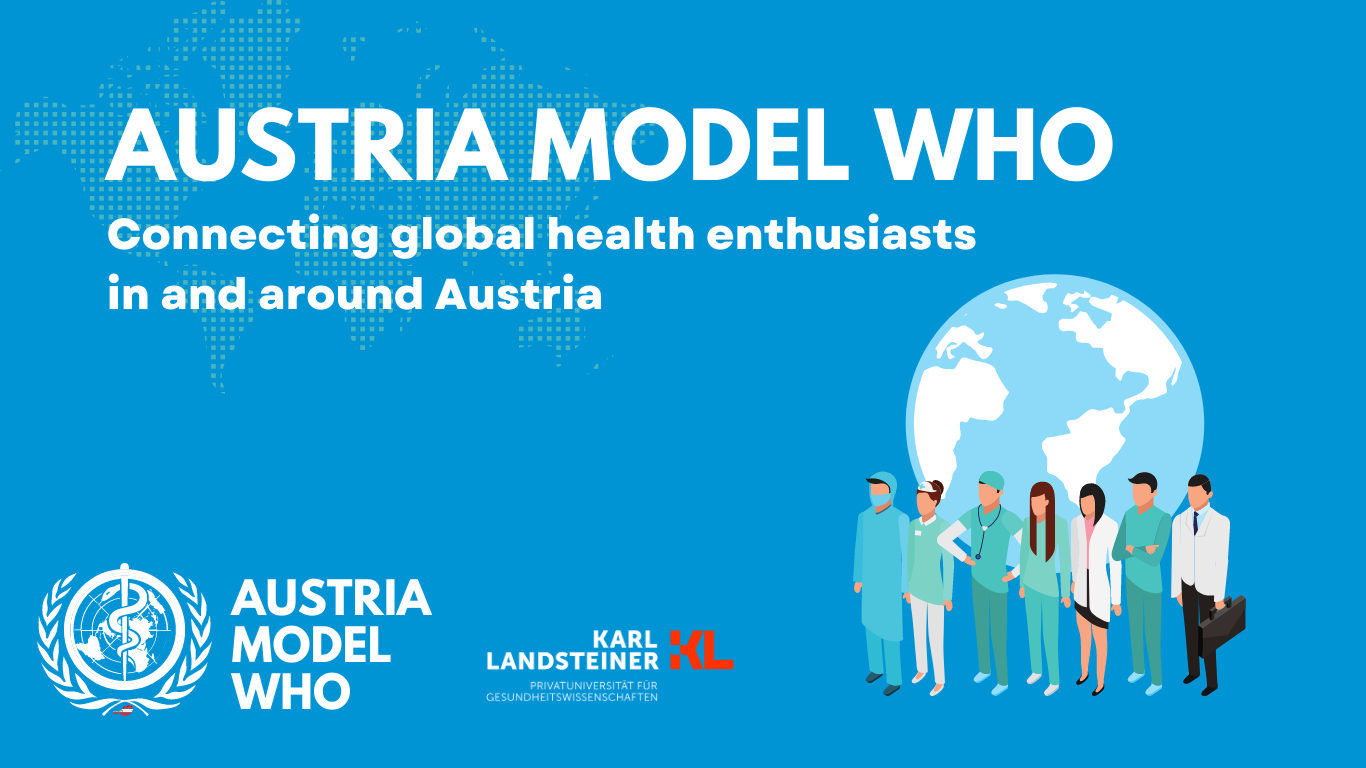
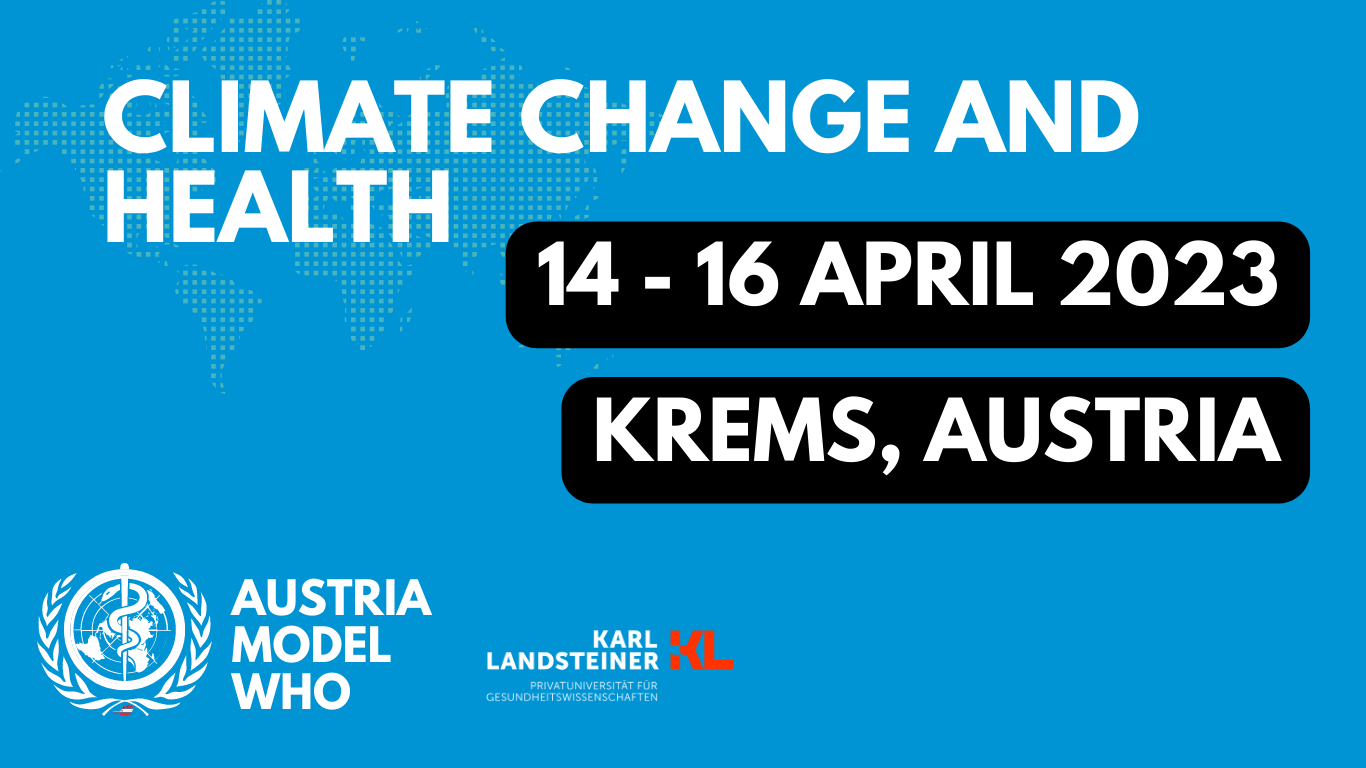
registrations open!

diff --git a/docs/docs/gallery/index.html b/docs/docs/gallery/index.html
@@ -184,7 +184,7 @@ ul.task-list li input[type="checkbox"] {
 <div class="g-col-4">
 <div class="quarto-figure quarto-figure-center">
 <figure class="figure">
-<p><a href="photos/DrNoon_presentation_2022.png" class="lightbox" title="Expert talk by Dr.&nbsp;Jawad Noon, “Future Energy &amp; Human Health” as part of the October 2022 (online) session on “Energy Security &amp; Health”." data-gallery="my-gallery"><img src="photos/DrNoon_presentation_2022.png" class="img-fluid figure-img"></a></p>
+<p><a href="photos/DrNoon_presentation_2022.png" class="lightbox" data-gallery="my-gallery" title="Expert talk by Dr.&nbsp;Jawad Noon, “Future Energy &amp; Human Health” as part of the October 2022 (online) session on “Energy Security &amp; Health”."><img src="photos/DrNoon_presentation_2022.png" class="img-fluid figure-img"></a></p>
 <p></p><figcaption class="figure-caption">Expert talk by Dr.&nbsp;Jawad Noon, “Future Energy &amp; Human Health” as part of the October 2022 (online) session on “Energy Security &amp; Health”.</figcaption><p></p>
 </figure>
 </div>
@@ -192,7 +192,7 @@ ul.task-list li input[type="checkbox"] {
 <div class="g-col-4">
 <div class="quarto-figure quarto-figure-center">
 <figure class="figure">
-<p><a href="photos/Participants_screenshot_2022.png" class="lightbox" title="Some of the participants and committee members as part of the October 2022 (online) session on “Energy Security &amp; Health”." data-gallery="my-gallery"><img src="photos/Participants_screenshot_2022.png" class="img-fluid figure-img"></a></p>
+<p><a href="photos/Participants_screenshot_2022.png" class="lightbox" data-gallery="my-gallery" title="Some of the participants and committee members as part of the October 2022 (online) session on “Energy Security &amp; Health”."><img src="photos/Participants_screenshot_2022.png" class="img-fluid figure-img"></a></p>
 <p></p><figcaption class="figure-caption">Some of the participants and committee members as part of the October 2022 (online) session on “Energy Security &amp; Health”.</figcaption><p></p>
 </figure>
 </div>
@@ -200,7 +200,7 @@ ul.task-list li input[type="checkbox"] {
 <div class="g-col-4">
 <div class="quarto-figure quarto-figure-center">
 <figure class="figure">
-<p><a href="photos/Plenary_session_2022.png" class="lightbox" title="Resolution writing as part of the October 2022 (online) session on “Energy Security &amp; Health”." data-gallery="my-gallery"><img src="photos/Plenary_session_2022.png" class="img-fluid figure-img"></a></p>
+<p><a href="photos/Plenary_session_2022.png" class="lightbox" data-gallery="my-gallery" title="Resolution writing as part of the October 2022 (online) session on “Energy Security &amp; Health”."><img src="photos/Plenary_session_2022.png" class="img-fluid figure-img"></a></p>
 <p></p><figcaption class="figure-caption">Resolution writing as part of the October 2022 (online) session on “Energy Security &amp; Health”.</figcaption><p></p>
 </figure>
 </div>
@@ -210,7 +210,7 @@ ul.task-list li input[type="checkbox"] {
 <div class="g-col-4">
 <div class="quarto-figure quarto-figure-center">
 <figure class="figure">
-<p><a href="photos/Keerthi_presentation_2022.png" class="lightbox" title="Presentation by Dr.&nbsp;Keerthi Dubbala, the President of Austria Model WHO and the Chair of the October 2022 (online) session on “Energy Security &amp; Health”." data-gallery="my-gallery"><img src="photos/Keerthi_presentation_2022.png" class="img-fluid figure-img"></a></p>
+<p><a href="photos/Keerthi_presentation_2022.png" class="lightbox" data-gallery="my-gallery" title="Presentation by Dr.&nbsp;Keerthi Dubbala, the President of Austria Model WHO and the Chair of the October 2022 (online) session on “Energy Security &amp; Health”."><img src="photos/Keerthi_presentation_2022.png" class="img-fluid figure-img"></a></p>
 <p></p><figcaption class="figure-caption">Presentation by Dr.&nbsp;Keerthi Dubbala, the President of Austria Model WHO and the Chair of the October 2022 (online) session on “Energy Security &amp; Health”.</figcaption><p></p>
 </figure>
 </div>
@@ -218,7 +218,7 @@ ul.task-list li input[type="checkbox"] {
 <div class="g-col-4">
 <div class="quarto-figure quarto-figure-center">
 <figure class="figure">
-<p><a href="photos/Roshan_presentation_2022.png" class="lightbox" title="Presentation by Dr.&nbsp;Roshan Prizak, one of the Vice-Presidents of Austria Model WHO as part of the October 2022 (online) session on “Energy Security &amp; Health”." data-gallery="my-gallery"><img src="photos/Roshan_presentation_2022.png" class="img-fluid figure-img"></a></p>
+<p><a href="photos/Roshan_presentation_2022.png" class="lightbox" data-gallery="my-gallery" title="Presentation by Dr.&nbsp;Roshan Prizak, one of the Vice-Presidents of Austria Model WHO as part of the October 2022 (online) session on “Energy Security &amp; Health”."><img src="photos/Roshan_presentation_2022.png" class="img-fluid figure-img"></a></p>
 <p></p><figcaption class="figure-caption">Presentation by Dr.&nbsp;Roshan Prizak, one of the Vice-Presidents of Austria Model WHO as part of the October 2022 (online) session on “Energy Security &amp; Health”.</figcaption><p></p>
 </figure>
 </div>
@@ -654,7 +654,7 @@ window.document.addEventListener("DOMContentLoaded", function (event) {
 });
 </script>
 </div> <!-- /content -->
-<script>var lightboxQuarto = GLightbox({"closeEffect":"zoom","loop":true,"openEffect":"zoom","selector":".lightbox","descPosition":"bottom"});</script>
+<script>var lightboxQuarto = GLightbox({"openEffect":"zoom","selector":".lightbox","loop":true,"closeEffect":"zoom","descPosition":"bottom"});</script>
 
 
 

diff --git a/docs/docs/events/april2023.html b/docs/docs/events/april2023.html
@@ -6,9 +6,9 @@
 
 <meta name="viewport" content="width=device-width, initial-scale=1.0, user-scalable=yes">
 
-<meta name="description" content="Add some more details here ..    Register">
+<meta name="description" content="Registrations are open now!    Register">
 
-<title>Austria Model WHO - Theme will be revealed soon!</title>
+<title>Austria Model WHO - Climate Change and Hralth</title>
 <style>
 code{white-space: pre-wrap;}
 span.smallcaps{font-variant: small-caps;}
@@ -55,11 +55,11 @@ ul.task-list li input[type="checkbox"] {
 
 
 <link rel="stylesheet" href="../../styles.css">
-<meta property="og:title" content="Austria Model WHO - Theme will be revealed soon!">
-<meta property="og:description" content="Add some more details here .. <br><br> <a class=&quot;description-button-link&quot; href=&quot;../../register.qmd&quot;><button class=&quot;button-18-normal&quot; role=&quot;button&quot;>Register</button></a>">
+<meta property="og:title" content="Austria Model WHO - Climate Change and Hralth">
+<meta property="og:description" content="Registrations are open now! <br><br> <a class=&quot;description-button-link&quot; href=&quot;../../register.qmd&quot;><button class=&quot;button-18-normal&quot; role=&quot;button&quot;>Register</button></a>">
 <meta property="og:site-name" content="Austria Model WHO">
-<meta name="twitter:title" content="Austria Model WHO - Theme will be revealed soon!">
-<meta name="twitter:description" content="Add some more details here .. <br><br> <a class=&quot;description-button-link&quot; href=&quot;../../register.qmd&quot;><button class=&quot;button-18-normal&quot; role=&quot;button&quot;>Register</button></a>">
+<meta name="twitter:title" content="Austria Model WHO - Climate Change and Hralth">
+<meta name="twitter:description" content="Registrations are open now! <br><br> <a class=&quot;description-button-link&quot; href=&quot;../../register.qmd&quot;><button class=&quot;button-18-normal&quot; role=&quot;button&quot;>Register</button></a>">
 <meta name="twitter:card" content="summary">
 </head>
 
@@ -152,11 +152,11 @@ ul.task-list li input[type="checkbox"] {
 <header id="title-block-header" class="quarto-title-block default page-columns page-full">
   <div class="quarto-title-banner page-columns page-full">
     <div class="quarto-title column-body">
-      <h1 class="title">Theme will be revealed soon!</h1>
+      <h1 class="title">Climate Change and Hralth</h1>
             <p class="subtitle lead">14-16 April 2023, Krems, Austria</p>
                   <div>
         <div class="description">
-          Add some more details here .. <br><br> <a class="description-button-link" href="../../register.html"><button class="button-18-normal" role="button">Register</button></a>
+          Registrations are open now! <br><br> <a class="description-button-link" href="../../register.html"><button class="button-18-normal" role="button">Register</button></a>
         </div>
       </div>
                 </div>

diff --git a/docs/docs/faq/index.html b/docs/docs/faq/index.html
@@ -226,7 +226,7 @@ ul.task-list li input[type="checkbox"] {
 </section>
 <section id="where-and-how-can-i-register-online" class="level3">
 <h3 class="anchored" data-anchor-id="where-and-how-can-i-register-online">Where and how can I register online?</h3>
-<p>You can register through the website of the Karl Landsteiner University. The registration link will be up <a href="../../register.html">here</a> once the registrations open.</p>
+<p>You can register through the <a href="https://opencampus.kl.ac.at/de/application">website of the Karl Landsteiner University</a>. You first have to register an account with KL, and after receving an activation link, you can then register for Austria Model WHO with your details,</p>
 </section>
 <section id="what-does-the-registration-fee-cover" class="level3">
 <h3 class="anchored" data-anchor-id="what-does-the-registration-fee-cover">What does the registration fee cover?</h3>

diff --git a/docs/register.html b/docs/register.html
@@ -175,7 +175,14 @@ ul.task-list li input[type="checkbox"] {
 
 
 <div class="h3 text-center">
-<p>Registrations will open soon this week! Don’t miss out the early-bird offer!</p>
+<p><a href="https://opencampus.kl.ac.at/de/application">Registrations are open! Register now and claim the early-bird offer!</a></p>
+</div>
+<div class="text-center">
+<ol type="1">
+<li>You need to create an account with KL first.</li>
+<li>After receiving an activation link, you can register for Austria Model WHO with your details.</li>
+<li>Follow the link above to get started.</li>
+</ol>
 </div>
 <div class="column-screen">
 <div class="my-footer-home">
